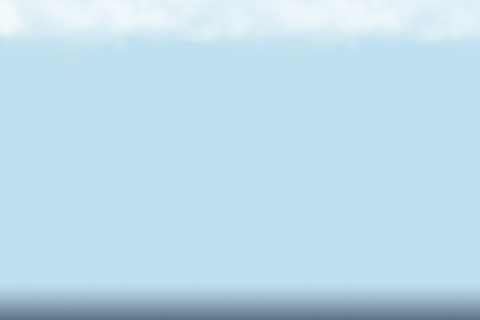
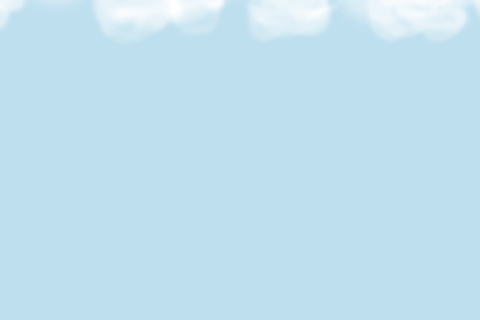
add intro

diff --git a/Classes/IntroScene.m b/Classes/IntroScene.m
@@ -1,0 +1,107 @@
+//
+// cocos2d Hello World example
+// http://www.cocos2d-iphone.org
+//
+
+// Import the interfaces
+#import "IntroScene.h"
+#import "LevelOneScene.h"
+#
+
+// HelloWorld implementation
+@implementation IntroScene
+
+// on "init" you need to initialize your instance
+-(id) init
+{
+	// always call "super" init
+	// Apple recommends to re-assign "self" with the "super" return value
+	if( (self=[super init] )) {
+		timeSinceAction=0.0f;
+		[self schedule: @selector(tick:)];
+
+
+		// addbackground
+		CGSize size = [[CCDirector sharedDirector] winSize];		
+		CCSprite *background = [CCSprite spriteWithFile:@"background_prequel.png"];
+		background.position = ccp( size.width /2 , size.height/2 );
+		[self addChild:background];
+		
+		// add devil
+		devil = [CCSprite spriteWithFile:@"Start.png"];
+		devil.position = ccp(300,100);
+		CCAnimation *da = [CCAnimation animationWithName:@"devil" delay:0.3f];
+		[da addFrameWithFilename:@"Start.png"];
+		[da addFrameWithFilename:@"02_hand_movement.png"];
+		[da addFrameWithFilename:@"03_hand_movement.png"];
+		[da addFrameWithFilename:@"04_hand_movement.png"];
+		[da addFrameWithFilename:@"05_laugh.png"];
+		[da addFrameWithFilename:@"06_laugh.png"];
+		[da addFrameWithFilename:@"07_laugh.png"];
+		[da addFrameWithFilename:@"08_laugh.png"];
+		[da addFrameWithFilename:@"09_movement.png"];
+		[da addFrameWithFilename:@"10_movement.png"];
+		[da addFrameWithFilename:@"11_pause.png"];
+		[da addFrameWithFilename:@"12_wink.png"];
+		[da addFrameWithFilename:@"13_unwink.png"];
+		[da addFrameWithFilename:@"14_movement.png"];
+		[da addFrameWithFilename:@"15_grab.png"];
+		[da addFrameWithFilename:@"16_pole.png"];
+		[da addFrameWithFilename:@"17_pole.png"];
+		[da addFrameWithFilename:@"18_fishing.png"];
+		[da addFrameWithFilename:@"19_fishing.png"];
+		[da addFrameWithFilename:@"20_fishing.png"];
+		[da addFrameWithFilename:@"21_fishing.png"];
+		[da addFrameWithFilename:@"22_fishing.png"];
+		[da addFrameWithFilename:@"End.png"];
+		[devil addAnimation:da];
+		
+		[self addChild:devil];
+
+		}
+	return self;
+}
+
++(id) scene
+{
+	// 'scene' is an autorelease object.
+	CCScene *scene = [CCScene node];
+	
+	// 'layer' is an autorelease object.
+	LevelScene *layer = [[self class] node];
+	
+	// add layer as a child to scene
+	[scene addChild: layer];
+	
+	// return the scene
+	return scene;
+}
+
+#define DEVIL_ANIM_DT 0.3f	// milliseconds between chew animation frame updates
+-(void) tick: (ccTime) dt {
+	timeSinceAction += dt;
+	
+	if (timeSinceAction > DEVIL_ANIM_DT) {
+		timeSinceAction = 0.0f;
+		devil_anim_index++;
+		[devil setDisplayFrame:@"devil" index:devil_anim_index];
+
+		if (devil_anim_index == 22) {
+			[[CCDirector sharedDirector] pushScene: [CCSlideInBTransition transitionWithDuration:1 scene:[LevelOne scene]]];	
+		}
+	}
+}
+
+
+// on "dealloc" you need to release all your retained objects
+- (void) dealloc
+{
+	// in case you have something to dealloc, do it in this method
+	// in this particular example nothing needs to be released.
+	// cocos2d will automatically release all the children (Label)
+	
+	// don't forget to call "super dealloc"
+	[super dealloc];
+//	[audioPlayerDict release];
+}
+@end

diff --git a/Classes/TrickTheDonkeyAppDelegate.m b/Classes/TrickTheDonkeyAppDelegate.m
@@ -10,6 +10,7 @@
 #import "cocos2d.h"
 #import "LevelOneScene.h"
 #import "LevelTwoScene.h"
+#import "IntroScene.h"
 
 @implementation TrickTheDonkeyAppDelegate
 
@@ -51,8 +52,8 @@
 	[[CCDirector sharedDirector] attachInView:window];	
 	[window makeKeyAndVisible];		
 		
-		
-	[[CCDirector sharedDirector] runWithScene: [LevelOne scene]];
+	[[CCDirector sharedDirector] runWithScene: [IntroScene scene]];		
+//	[[CCDirector sharedDirector] runWithScene: [LevelOne scene]];
 //	[[CCDirector sharedDirector] runWithScene: [LevelTwo scene]];
 }
 

diff --git a/Classes/LevelOneScene.m b/Classes/LevelOneScene.m
@@ -12,7 +12,7 @@
 @implementation LevelOne
 
 
-#define L1_CARROT_INITIAL_POS_X 400
+#define L1_CARROT_INITIAL_POS_X 263
 #define L1_CARROT_INITIAL_POS_Y 290
 
 #define L1_DONKEY_INITIAL_POS_X 40

diff --git a/Classes/IntroScene.h b/Classes/IntroScene.h
@@ -1,0 +1,11 @@
+
+#import "LevelScene.h"
+
+@interface IntroScene : CCLayer
+{
+	float timeSinceAction;
+	int devil_anim_index;
+	CCSprite *devil;
+}
++(id) scene;
+@end
